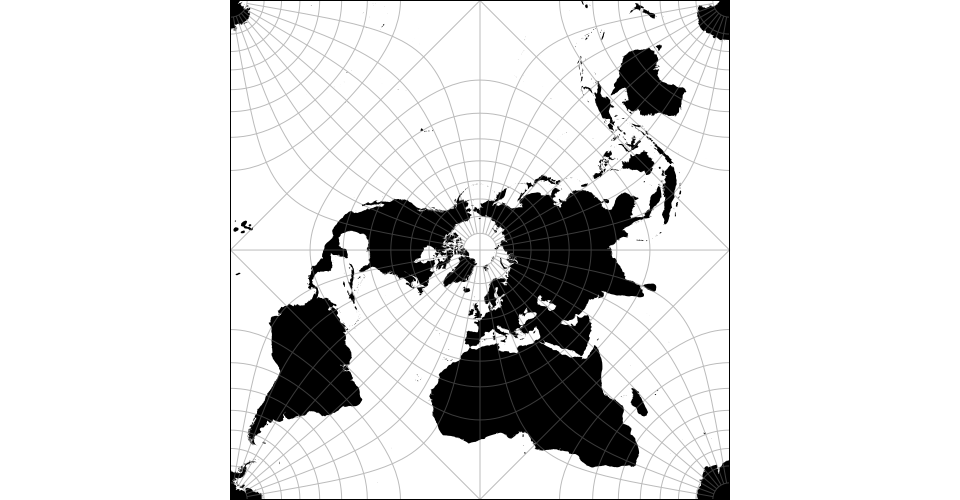
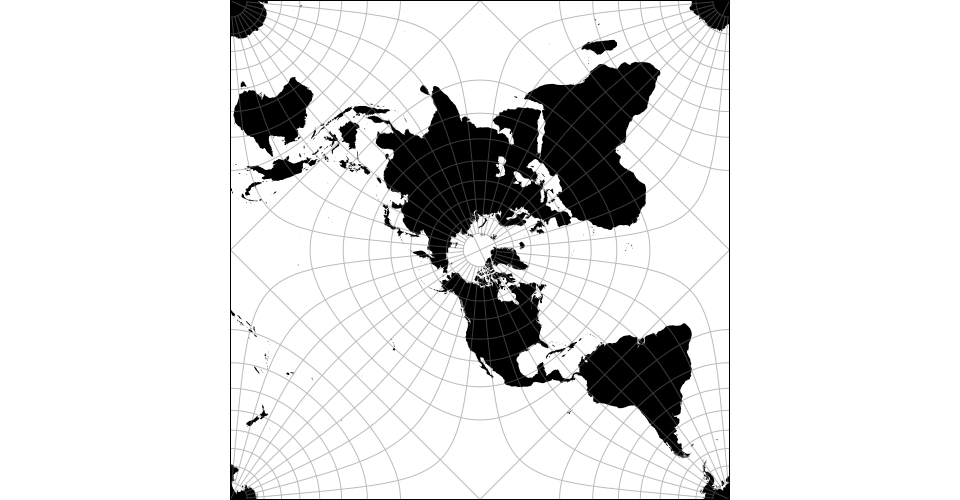
fast PeirceQuincuncial implementation by Jacob Rus https://observablehq.com/@jrus/fast-peirce-quincuncial

Changed region(s): [[0.2188, 0.0, 0.7812, 1.0]]

diff --git a/src/quincuncial/peirce.js b/src/quincuncial/peirce.js
@@ -1,7 +1,272 @@
-import {guyouRaw} from "../guyou.js";
-import quincuncial from "./index.js";
+import {geoProjection as projection} from "d3-geo";
+import {sqrt, sign, cos, sin, tan, atan, atan2, hypot, halfPi} from "../math.js";
+  
+
+function reval(nodes, values, weights) {
+  const n = nodes.length;
+
+  return function reval(x, y) {
+
+    // running total for numerator & denominator
+    let px = 0, py = 0, qx = 0, qy = 0;
+
+    for (let j = 0; j < n; j += 2) {
+      // q += w_j / (z - z_j)
+      // p += f_j * w_j / (z - z_j)
+      const xj = x - nodes[j], yj = nodes[j+1] - y,
+            wxj = weights[j], wyj = weights[j+1],
+            fxj = values[j], fyj = values[j+1],
+            dj = 1 / (xj*xj + yj*yj),
+            qxj = dj * (wxj*xj - wyj*yj),
+            qyj = dj * (wxj*yj + wyj*xj);
+      px += fxj * qxj - fyj * qyj;
+      py += fxj * qyj + fyj * qxj;
+      qx += qxj, qy += qyj;
+    }
+
+    let d = 1 / (qx * qx + qy * qy),
+        fx = (px * qx + py * qy) * d,
+        fy = (py * qx - px * qy) * d;
+
+    // Edge case where x + iy is one of the nodes; directly use value
+    if (fx + fy !== fx + fy) { // true if x or y is NaN
+      for (let j = 0; j < n; j += 2) {
+        const xj = x - nodes[j], yj = nodes[j+1] - y;
+        if ((xj === 0) & (yj === 0)) {
+          fx = values[j]; fy = values[j+1];
+          break;
+        }
+      }
+    }
+
+    const z = new Float64Array(2); z[0] = fx; z[1] = fy;
+    return z;
+  };
+
+}
+
+const qmap = reval(new Float64Array([
+   2.841274295607302e-01,  0.000000000000000e+00,
+   9.000701021270673e-01,  4.357451218969299e-01,
+   8.307448759221154e-01,  0.000000000000000e+00,
+   6.627533478425493e-02,  0.000000000000000e+00,
+   7.867241040676948e-01,  6.173047740613080e-01,
+   2.091012105576087e-01,  2.091012105576087e-01,
+   9.908979498340043e-01,  1.346152035052754e-01,
+   5.831630651834322e-01,  0.000000000000000e+00,
+   5.823169918190614e-01,  5.823169918190614e-01,
+   4.600717751287283e-01,  4.600717751287283e-01,
+   1.175386486186337e-02,  1.175386486186337e-02
+]), new Float64Array([
+   6.133041957206595e-01,  0.000000000000000e+00,
+   0.000000000000000e+00, -2.697288123328281e-01,
+   1.073938602151508e-01,  0.000000000000000e+00,
+   9.014510181710358e-01,  0.000000000000000e+00,
+   2.775557561562891e-17, -4.121942774638293e-01,
+   6.812551737310080e-01, -2.679456941323670e-01,
+   6.938893903907228e-18, -7.874961347414625e-02,
+   3.022540859025502e-01,  0.000000000000000e+00,
+   1.462888136479623e-01, -4.892997915007359e-01,
+   3.098769525555705e-01, -4.519881371374364e-01,
+   9.820692497723584e-01, -1.776999432577847e-02
+]), new Float64Array([
+  -1.636735245315600e-01,  0.000000000000000e+00,
+   4.576711314447485e-01,  2.606917127959570e-01,
+   6.218685503420178e-02, -4.555806628111250e-01,
+  -1.381933609058136e-02,  4.276799650123018e-02,
+  -4.937289564091346e-02,  2.051307665996611e-01,
+   1.469711063375004e-02,  8.532858482953236e-02,
+   3.617212217993757e-01, -3.977678831392779e-02,
+  -3.557001195121915e-01, -2.900841369992467e-01,
+  -1.172277719642794e-01,  1.668340930233777e-01,
+  -2.096148398952382e-01,  3.730691188900302e-02,
+   1.313037843108833e-02, -1.261985295194955e-02
+]));
+
+const qimap = reval(new Float64Array([
+   3.812877943853064e-01, -4.273098089263941e-01,
+   5.862237343389646e-01,  0.000000000000000e+00,
+  -1.387778780781446e-17, -1.136995103524485e-01,
+   8.606531239202513e-01, -1.296381001431562e-01,
+   1.486522213141997e-01, -4.889512585491770e-01,
+   0.000000000000000e+00, -4.823196777396260e-01,
+   2.870951833595923e-01,  0.000000000000000e+00,
+   9.988582417584706e-01,  0.000000000000000e+00
+]), new Float64Array([
+   4.100042032428683e-01,  4.100042032428683e-01,
+   3.069627780283768e-01,  0.000000000000000e+00,
+   9.811562764314339e-01,  1.932158410151805e-01,
+   9.134642598181811e-02,  9.134642598181811e-02,
+   5.804469590593406e-01,  5.804469590593406e-01,
+   7.234467769137209e-01,  6.903801568506648e-01,
+   6.003103515806268e-01,  0.000000000000000e+00,
+   7.486527117271623e-04,  0.000000000000000e+00
+]), new Float64Array([
+  -4.890921447242968e-01,  0.000000000000000e+00,
+   1.202130864468549e-01, -5.417179517038786e-01,
+   7.026464276190582e-02,  9.713636303667084e-02,
+  -2.352682166111389e-01,  1.787326777655438e-01,
+  -2.036311348372837e-02,  3.592547702079886e-01,
+   1.050424248615412e-01, -4.007475368880814e-02,
+   4.463703363841267e-01,  3.820014896672286e-02,
+   2.833107518816005e-03, -9.153116096530403e-02,
+]));
+
+const k = 0.7627597635018135;  // forward map derivative at the origin
+const kk = 1 / k;
+  
+function stereo_quincuncial(x, y) {
+  
+  // ********** DOMAIN REDUCTION
+  
+  const sx = sign(x) || sign(1/x); // -0 -> -1; +0 -> +1
+  const sy = sign(y) || sign(1/y);
+
+  const r2 = x*x + y*y;
+  // short circuit for points near the poles
+  if (r2 > 1e8) {
+    const z = new Float64Array(2);
+    if (r2 === 0) {z[0] = sx; z[1] = sy}
+    else {z[0] = sx - y * (k/r2); z[1] = sy - x * (k/r2)}
+    return z;
+  }
+  if (r2 < 1e-8) {
+    const z = new Float64Array(2);
+    z[0] = k*x; z[1] = k*y;
+    return z
+  }
+
+  x *= sx; y *= sy; // reflect into positive quadrant
+
+  const rbig = r2 > 1;
+  if (rbig) { const d = 1/r2; x *= d; y *= d; } // invert across unit circle
+  const ybig = y > x;
+  if (ybig) { const t = x; x = y; y = t; } // reflect across line y = x
+  
+  // ********** MAP FUNDAMENTAL PIE SLICE
+  
+  const z = qmap(x, y); // apply rational approximation
+  x = z[0]; y = z[1];
+  // at this point, x + iy == (1 - z)^2, where z is the
+  // output in the triangle with vertices [0, 1, (1+i)/2]
+
+  // x + iy = 1 - complex_sqrt(x + iy)
+  { const r = sqrt(x*x + y*y);
+    y = sqrt(0.5 * (r - x));
+    x = 1 - sqrt(0.5 * (r + x));
+  }
+  
+  y *= (y >= 0); // don’t let the projection out of bounds
+  
+  // ********** REFLECT ACCORDING TO EARLIER DOMAIN REDUCTIONS
+  
+  if (ybig) { const t = x; x = y; y = t; }
+  if (rbig) { const t = x; x = 1 - y; y = 1 - t; }
+  z[0] = x * sx; z[1] = y * sy; // re-use array z
+  return z;
+}
+
+
+stereo_quincuncial.invert = function stereo_quincuncial_inverse(x, y) {
+
+  // ********** DOMAIN REDUCTION
+  
+  // reduce areas outside [-1, 1] square and reflect to positive quadrant
+  const xg = Math.round(0.5*x);
+  const yg = Math.round(0.5*y);
+  x -= 2*xg; y -= 2*yg;
+  
+  let sx = sign(x) || sign(1/x);
+  let sy = sign(y) || sign(1/y);
+  
+  x *= sx; y *= sy;
+  const g = 2 * ((xg + yg) & 1);
+  sx *= 1 - g; sy *= 1 - g;
+  
+  const rbig = x + y > 1;
+  if (rbig) { const t = x; x = 1 - y; y = 1 - t; } // invert across line x + y = 1
+
+  const ybig = y > x;
+  if (ybig) { let t = x; x = y; y = t; } // reflect across line y = x
+  
+  // short circuit for points near the poles
+  let z;
+  if (x + y < 1e-4) {
+    x *= kk; y *= kk;
+    z = new Float64Array(2);
+  } else {
+    
+    // ********** MAP FUNDAMENTAL ISOCELES RIGHT TRIANGLE
+    
+    // x + iy = (1 - x - iy)^2
+    { const a = 1 - x;
+      x = a*a - y*y;
+      y = -2*a*y;
+    }
+    z = qimap(x, y); // apply rational approximation
+    x = z[0]; y = z[1];
+  }
+  
+  // ********** REFLECT ACCORDING TO EARLIER DOMAIN REDUCTIONS
+  
+  if (ybig) { const t = x; x = y; y = t; }
+  if (rbig) {
+    const r = 1 / (x*x + y*y);
+    if (r === Infinity) {x = y = 1;}
+    x *= r; y *= r;
+  }
+  z[0] = x * sx; z[1] = y * sy; // re-use array z
+  return z;
+};
+  
+
+function quincuncial(longitude, latitude) {
+  let x, y;
+  
+  // stereographic projection with north pole at the origin
+  { const r = tan(0.5 * (halfPi - latitude));
+    x = cos(longitude) * r;
+    y = sin(longitude) * r;
+  }
+
+  return stereo_quincuncial(x, y)
+}
+
+quincuncial.invert = function quincuncial_inverse(x, y) {
+  const z = stereo_quincuncial.invert(x, y);
+  x = z[0]; y = z[1];
+  
+  // invert stereographic projection
+  const longitude = atan2(y, x);
+  const latitude = - 2 * atan(hypot(x, y)) + halfPi;
+
+  z[0] = longitude, z[1] = latitude;
+  return z;
+};
 
 export default function() {
-  return quincuncial(guyouRaw)
-      .scale(111.48);
+  const p = projection(quincuncial),
+    projectionStream = p.stream;
+
+  p.stream = function(stream) {
+    var rotateStream = projectionStream(stream);
+    rotateStream.sphere = function() {
+      var p0 = p.translate(), s = p.scale();
+      stream.polygonStart();
+      stream.lineStart();
+      stream.point(p0[0] + s, p0[1] - s); // top-right
+      stream.point(p0[0] - s, p0[1] - s); // top-left
+      stream.point(p0[0] - s, p0[1] + s); // bottom-left
+      stream.point(p0[0] + s, p0[1] + s); // bottom-right
+      stream.lineEnd();
+      stream.polygonEnd();
+    };
+    return rotateStream;
+  };
+
+  return p
+    .rotate([25, 0, 0])
+    .scale(249.5)
+    .center([0, 90])
+    .precision(0.05);
 }

diff --git a/src/math.js b/src/math.js
@@ -5,6 +5,7 @@ export var ceil = Math.ceil;
 export var cos = Math.cos;
 export var exp = Math.exp;
 export var floor = Math.floor;
+export var hypot = Math.hypot;
 export var log = Math.log;
 export var max = Math.max;
 export var min = Math.min;
